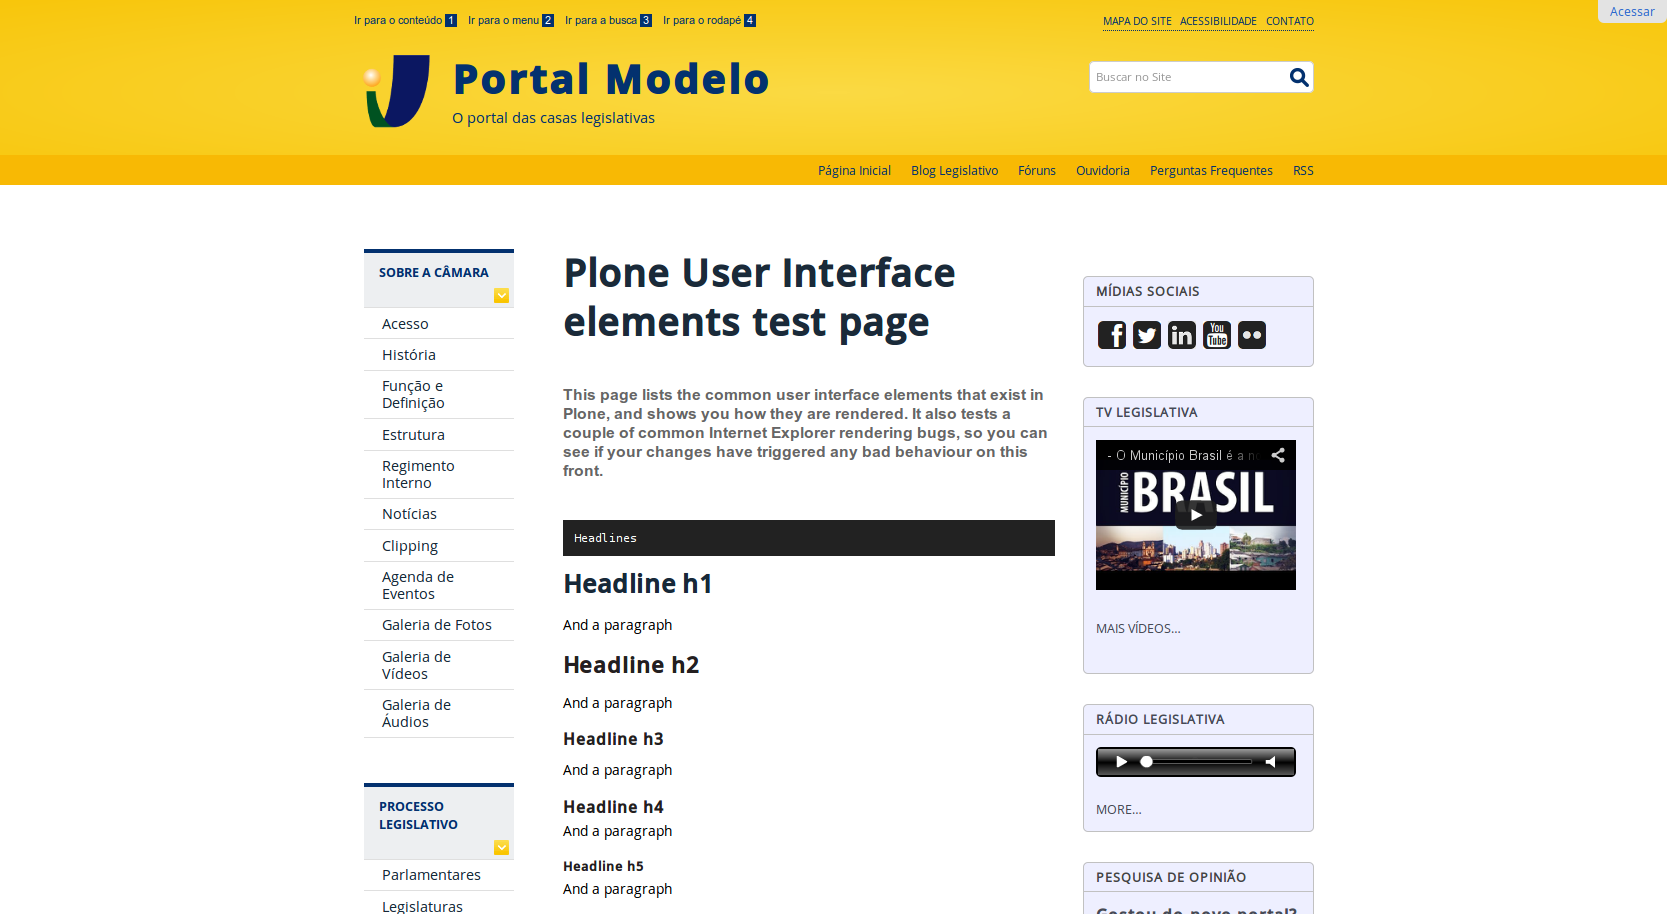
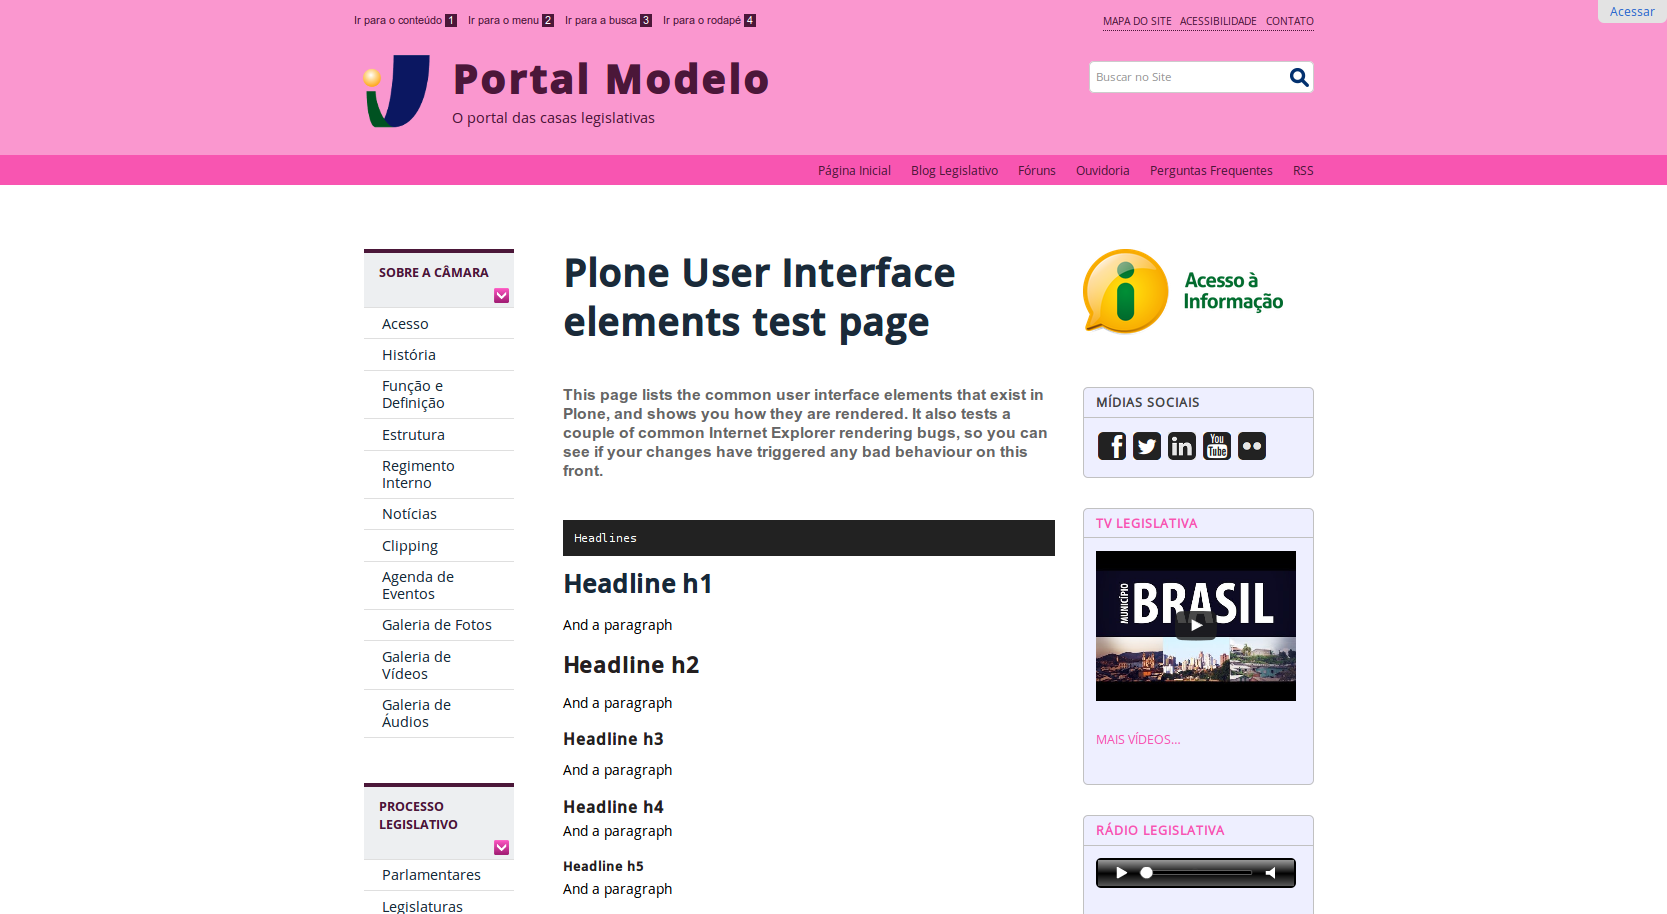
Enable IDG-rosa theme and fix it tests

diff --git a/src/interlegis/portalmodelo/theme/tests/test_setup.py b/src/interlegis/portalmodelo/theme/tests/test_setup.py
@@ -41,8 +41,8 @@ class InstallTestCase(unittest.TestCase):
 
     def test_temas_disponiveis(self):
         themes = getAvailableThemes()
-        # Nosso tema + os dois do Plone
-        self.assertEqual(len(themes), 15)
+        # Nossos temas + os dois do Plone
+        self.assertEqual(len(themes), 16)
 
     def test_tema_Areia_disponivel(self):
         theme = getTheme('Areia')
@@ -174,6 +174,17 @@ class InstallTestCase(unittest.TestCase):
                          'Tema verde para o Portal Modelo, baseado na Identidade Digital do Governo')
         self.assertEqual(theme.rules, '/++theme++IDG-verde/rules.xml')
         self.assertEqual(theme.absolutePrefix, '/++theme++IDG-verde')
+        self.assertEqual(theme.doctype, "<!DOCTYPE html>")
+
+    def test_tema_idg_rosa_disponivel(self):
+        theme = getTheme('IDG-rosa')
+        self.assertTrue(theme is not None)
+        self.assertEqual(theme.__name__, 'IDG-rosa')
+        self.assertEqual(theme.title, 'IDG - Tema Rosa')
+        self.assertEqual(theme.description,
+                         'Tema outubro rosa para o Portal Modelo, baseado na Identidade Digital do Governo')
+        self.assertEqual(theme.rules, '/++theme++IDG-rosa/rules.xml')
+        self.assertEqual(theme.absolutePrefix, '/++theme++IDG-rosa')
         self.assertEqual(theme.doctype, "<!DOCTYPE html>")
 
     def test_tema_original_disponivel(self):

diff --git a/README.rst b/README.rst
@@ -111,6 +111,13 @@ Tema IDG Verde
         :width: 200px
         :height: 110px
 
+Tema IDG Rosa
+-------------
+
+.. image:: https://raw.githubusercontent.com/interlegis/interlegis.portalmodelo.theme/master/src/interlegis/portalmodelo/theme/themes/IDG-rosa/preview.png
+        :width: 200px
+        :height: 110px
+
 Tema Original
 ------------------
 

diff --git a/CHANGES.rst b/CHANGES.rst
@@ -4,7 +4,11 @@ Changelog
 1.0rc5 (unreleased)
 -------------------
 
-- Nothing changed yet.
+- Enable IDG-rosa theme and fix it tests
+  [jeanferri]
+
+- Add pink theme based on IDG-amarelo
+  [ramiroluz]
 
 
 1.0rc4 (2015-08-26)
